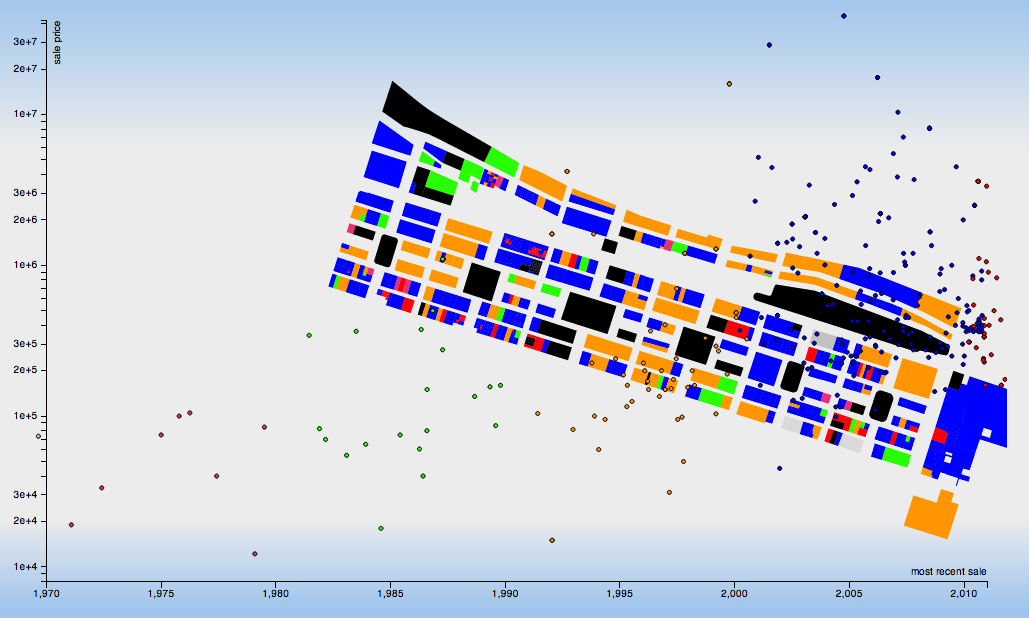
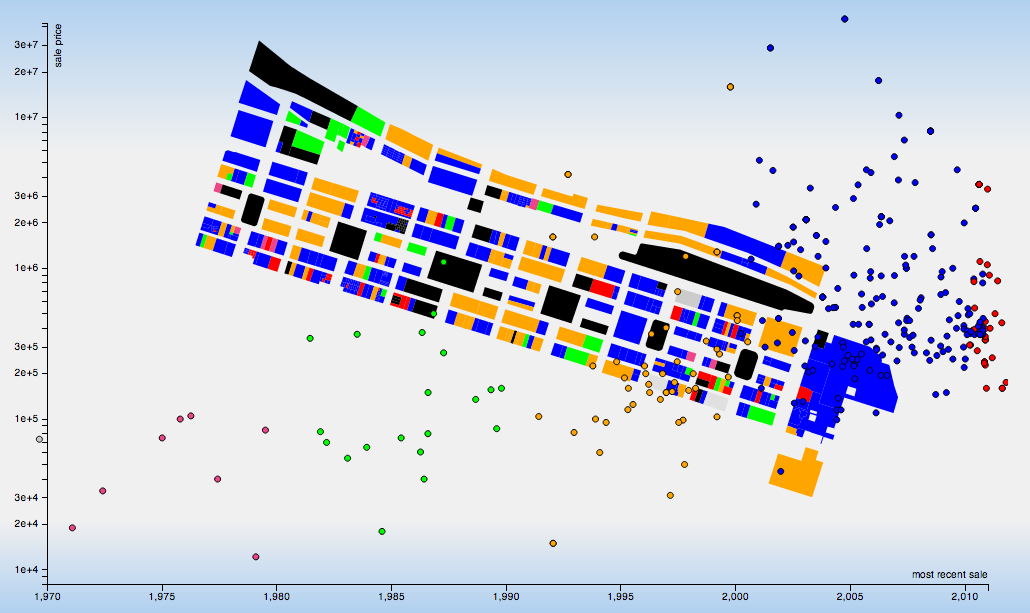
approximate centroid, wider dots

diff --git a/scattermap.js b/scattermap.js
@@ -58,42 +58,22 @@ svg.append("text")
     .attr("transform", "rotate(-90)")
     .text("sale price");
 
-// calculation based on jsFiddle shown in http://stackoverflow.com/questions/4814675/find-center-point-of-a-polygon-in-js
-var poly_area = function(pts){
-  var area=0;
-  var nPts = pts.length;
-  var j=nPts-1;
-  var p1, p2;
-  for(var i=0;i<nPts;j=i++){
-    p1={x: pts[i][0], y: pts[i][1] };
-    p2={x: pts[j][0], y: pts[j][1] };
-    area+=p1.x*p2.y;
-    area-=p1.y*p2.x;
-  }
-  area/=2;
-  return area;
-};
-
+// approximate centroid = average point
 var centroid = function(poly, mytimer, time_end){
-  var pts = poly.coordinates[0];
-  var nPts = pts.length;
-  var x=0;
-  var y=0;
-  var f, p1, p2;
-  var j=nPts-1;
-  for(var i=0;i<nPts;j=i++){
-    p1={x: pts[i][0], y: pts[i][1] };
-    p2={x: pts[j][0], y: pts[j][1] };
-    f=p1.x*p2.y-p2.x*p1.y;
-    x+=(p1.x+p2.x)*f;
-    y+=(p1.y+p2.y)*f;
+  var pts=poly.coordinates[0];
+  var x = 0;
+  var y = 0;
+  for(var p=0;p<pts.length-1;p++){
+    x += pts[p][0] * 1.0;
+    y += pts[p][1] * 1.0;
   }
-  f=poly_area(pts)*6;
+  x /= pts.length - 1;
+  y /= pts.length - 1;
   if(mytimer || time_end){
-    return [ (x/f - ctrlng) * mytimer / time_end + ctrlng, (y/f - ctrlat) * mytimer / time_end + ctrlat ];
+    return [ (x - ctrlng) * mytimer / time_end + ctrlng, (y - ctrlat) * mytimer / time_end + ctrlat ];
   }
   else{
-    return [ x/f, y/f ];
+    return [ x, y ];
   }
 };
 
@@ -113,7 +93,7 @@ d3.json("savannahs3.geojson", function(err, parcels) {
   }
   ctrlat = (minlat + maxlat) / 2;
   ctrlng = (minlng + maxlng) / 2;
-  geoscale = 17000000 / (Math.max(maxlng - minlng, 1.5 * (maxlat - minlat)) / 0.01967949560602733);
+  geoscale = 12000000 / (Math.max(maxlng - minlng, 1.5 * (maxlat - minlat)) / 0.01967949560602733);
 
   // load tract map
   var parcelgeos = svg.selectAll("svg")
@@ -203,7 +183,7 @@ d3.json("savannahs3.geojson", function(err, parcels) {
     try{
       dot.attr("cx", function(d) { return xScale(x(d)); })
        .attr("cy", function(d) { return yScale(y(d)); })
-       .attr("r", function(d) { return 2; });
+       .attr("r", 3);
     }
     catch(e){
       // impossible cy
